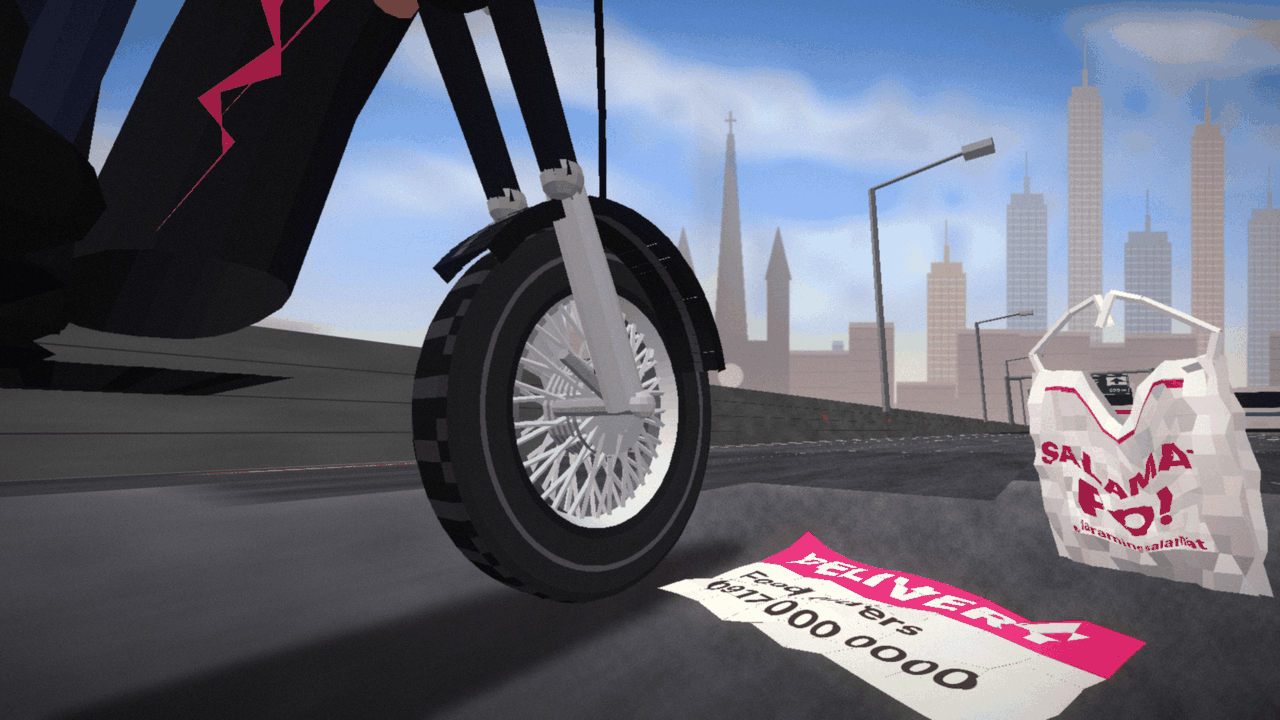
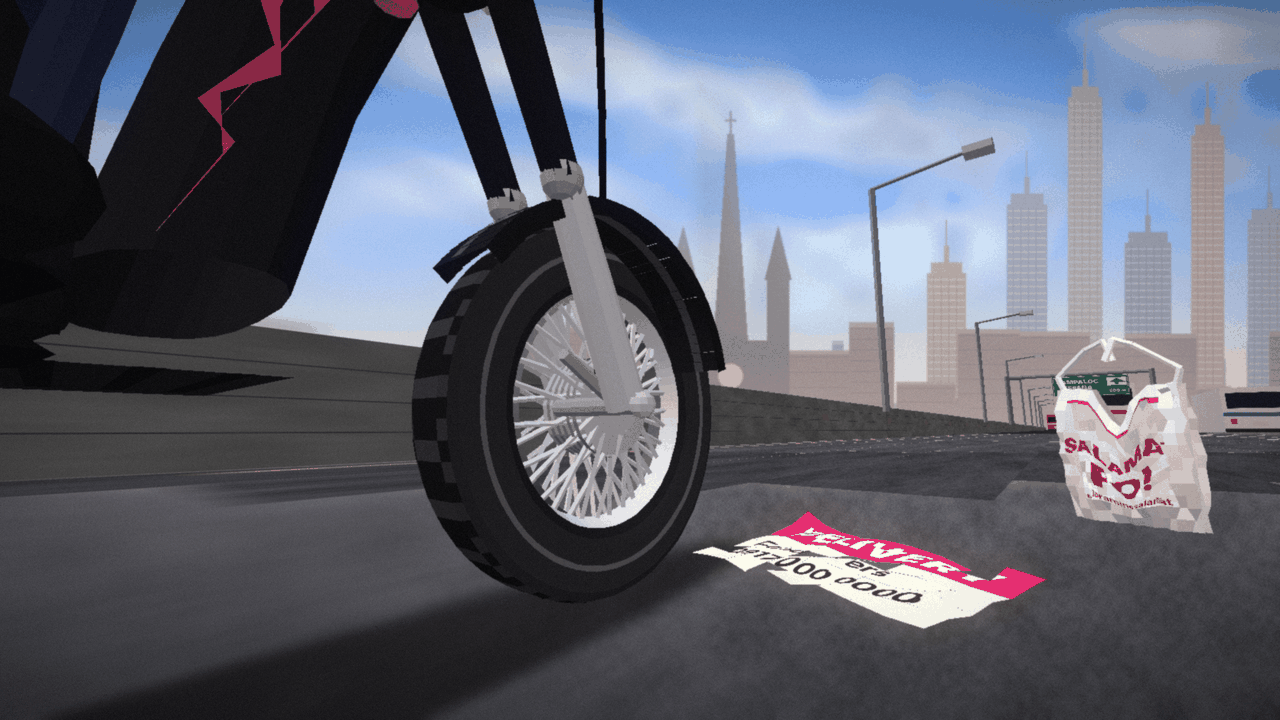
feat(art): move the skyway flyer and sando bag farther from the camera
Claude-Session: https://claude.ai/code/session_018qtt7uTeVSGsnvQanUjafP

Changed region(s): [[0.7812, 0.3972, 1.0, 0.825], [0.5, 0.7028, 0.9062, 1.0], [0.2812, 0.0, 0.3438, 0.0306]]

diff --git a/tools/intro_frames.py b/tools/intro_frames.py
@@ -527,9 +527,9 @@ def build_skyway(size):
     bp.steering(wheel_pass, 6)
     bp.rider(wheel_pass)
     # Rubbish on the road: a crumpled delivery flyer lying flat and a white sando bag near the camera at the bottom right.
-    flyer_at = ground_at(wheel_pass, w * 0.67, h * 0.87)
+    flyer_at = ground_at(wheel_pass, w * 0.66, h * 0.8)
     crumpled_flyer(wheel_pass, (flyer_at[0], 0.02, flyer_at[2]), 200, -90, 0, w=0.5, h=0.34, seed=6, mirror=True)
-    bag_at = ground_at(wheel_pass, w * 0.9, h * 0.8)
+    bag_at = ground_at(wheel_pass, w * 0.89, h * 0.73)
     sando_bag(wheel_pass, bag_at, 205, 4.0, scale=0.85)
     return wheel_pass.render(scene_bg)
 
